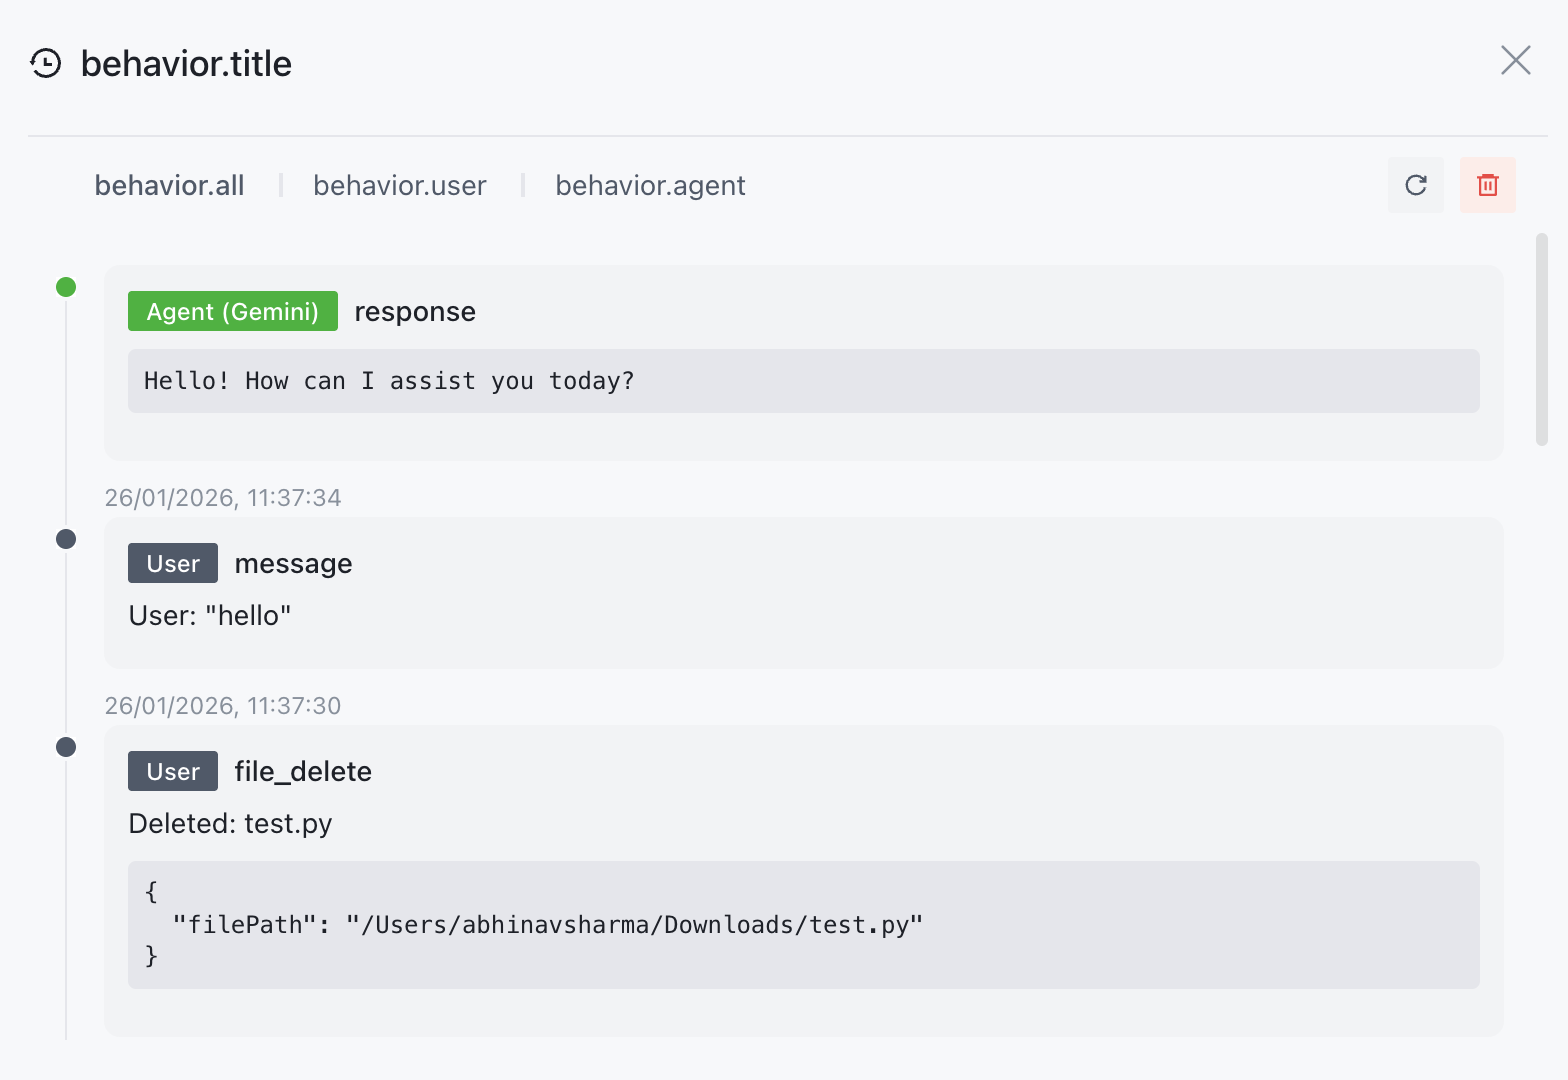
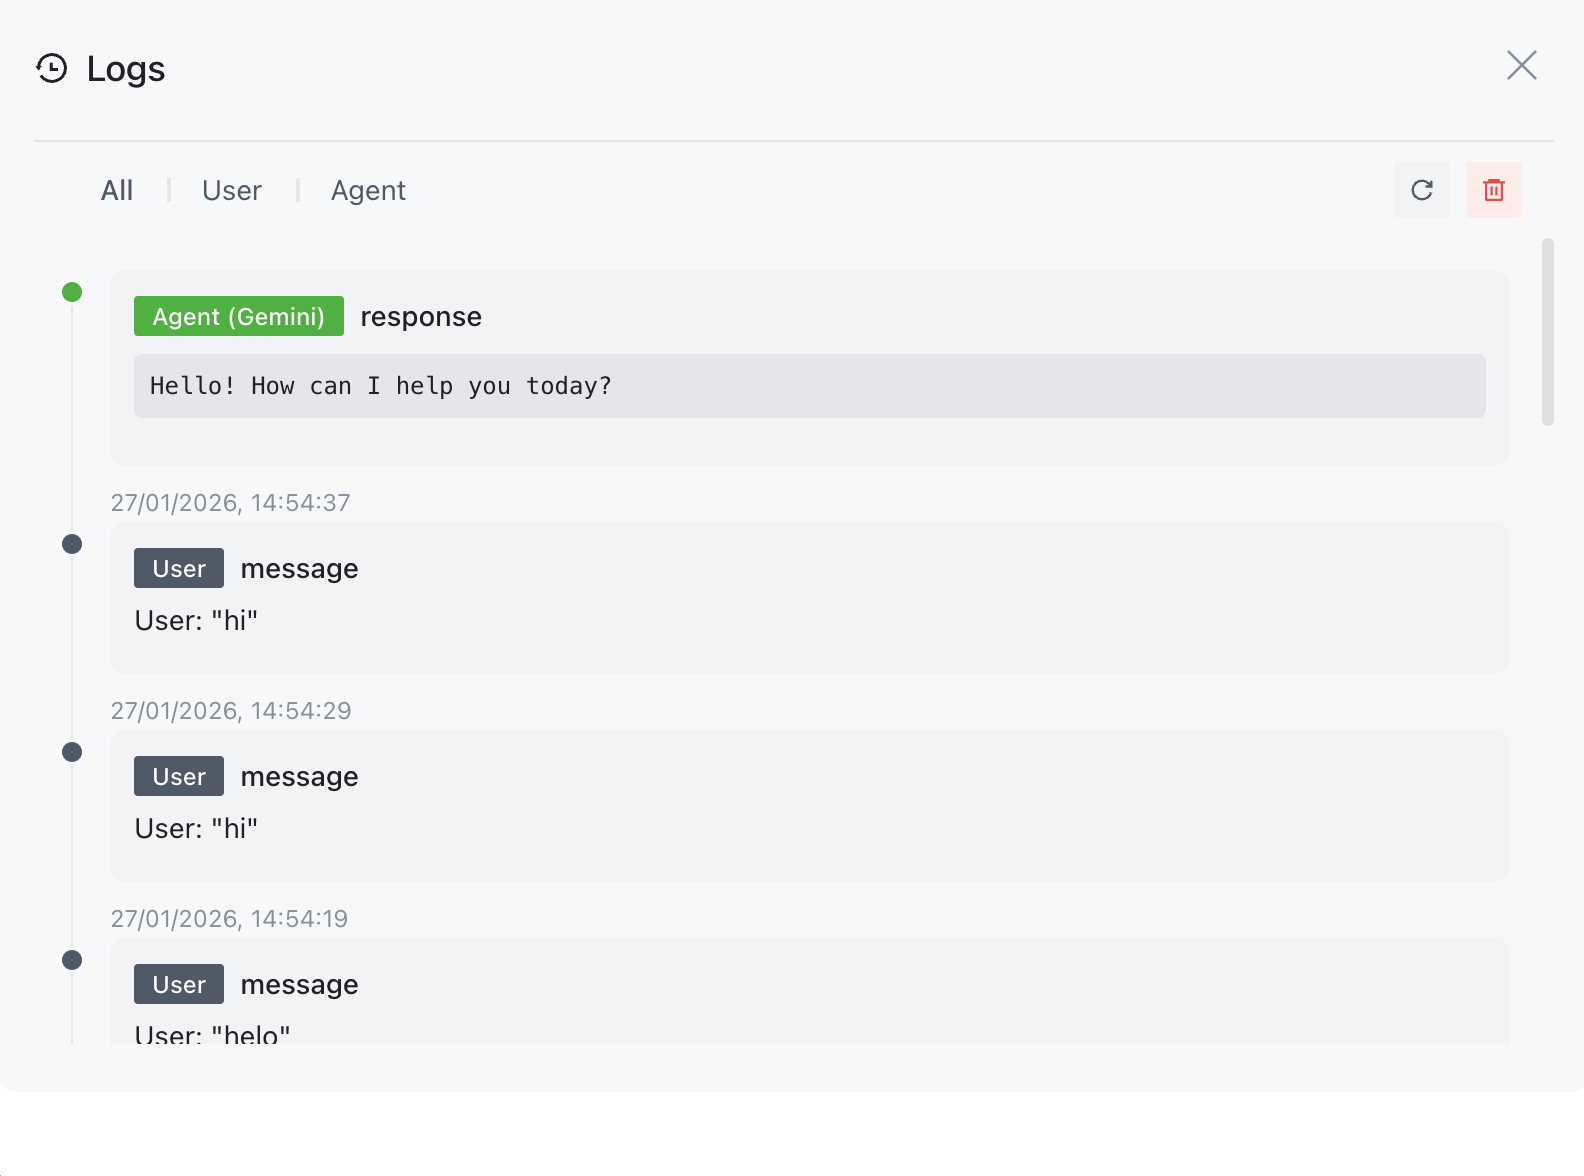
style: logs modal

diff --git a/src/renderer/components/BehaviorLogModal.tsx b/src/renderer/components/BehaviorLogModal.tsx
@@ -87,7 +87,7 @@ const BehaviorLogModal: React.FC<BehaviorLogModalProps> = ({ visible, workspace,
       title={
         <div className='flex items-center gap-2'>
           <IconHistory />
-          {t('behavior.title') || 'Behavior History'}
+          {t('Logs') || 'Logs'}
         </div>
       }
       contentStyle={{ height: '70vh', padding: 0 }}
@@ -95,9 +95,9 @@ const BehaviorLogModal: React.FC<BehaviorLogModalProps> = ({ visible, workspace,
       <div className='flex flex-col h-full'>
         <div className='flex items-center justify-between px-4 py-2 border-b border-border'>
           <Tabs activeTab={activeTab} onChange={setActiveTab} type='text'>
-            <Tabs.TabPane key='all' title={t('behavior.all') || 'All'} />
-            <Tabs.TabPane key='user' title={t('behavior.user') || 'User'} />
-            <Tabs.TabPane key='agent' title={t('behavior.agent') || 'Agent'} />
+            <Tabs.TabPane key='all' title={t('All') || 'All'} />
+            <Tabs.TabPane key='user' title={t('User') || 'User'} />
+            <Tabs.TabPane key='agent' title={t('Agent') || 'Agent'} />
           </Tabs>
           <div className='flex gap-2'>
             <Button size='small' icon={<IconRefresh />} onClick={loadLogs} />
